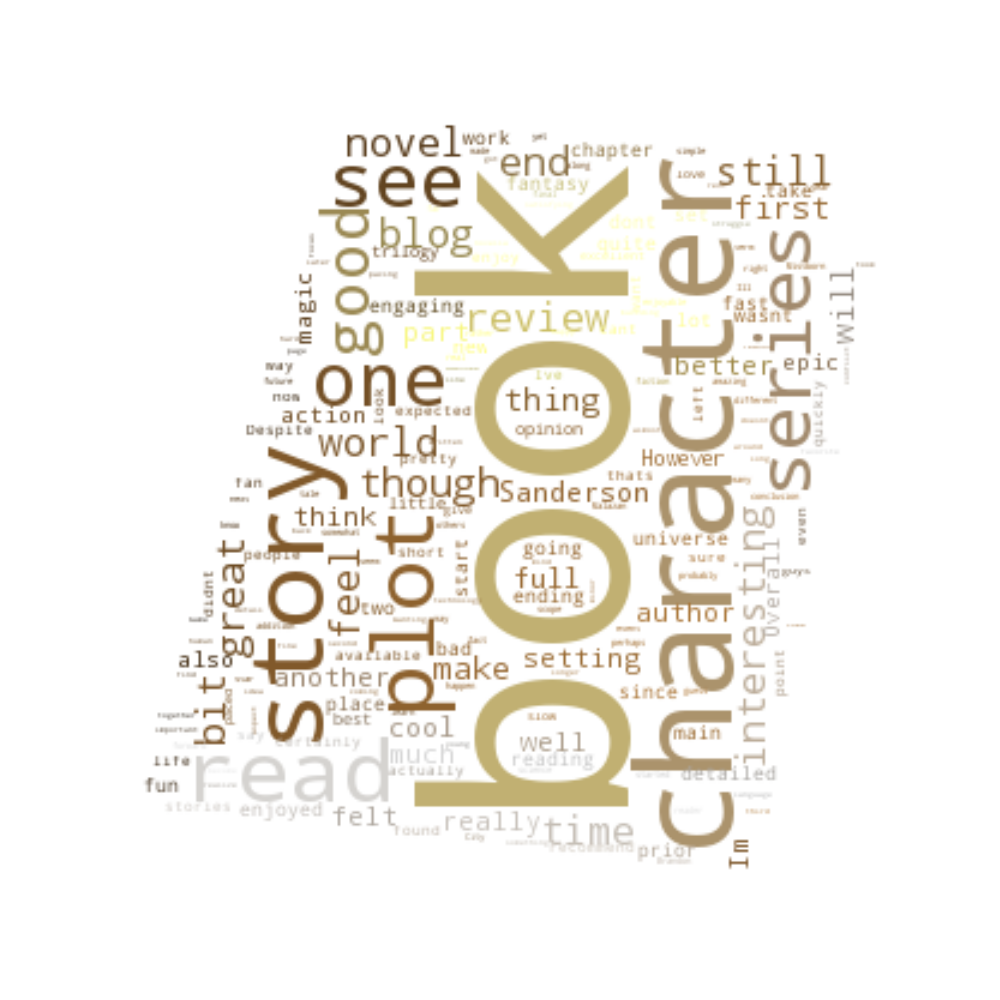
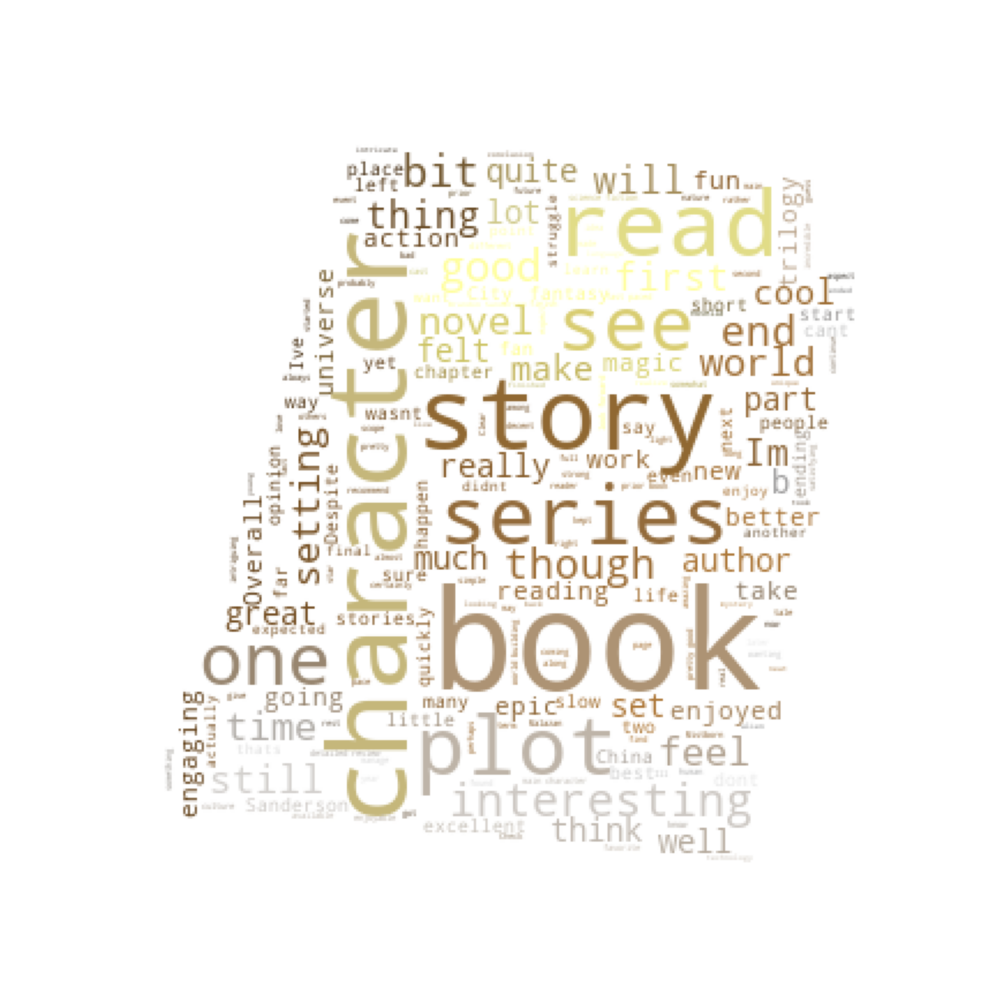
updating wordcloud

Changed region(s): [[0.124, 0.124, 0.868, 0.868]]

diff --git a/word_cloud.py b/word_cloud.py
@@ -1,15 +1,18 @@
 # Word Cloud of my reviews
 
 import pickle
-import pandas as pd
+import numpy as np
+from PIL import Image
 from wordcloud import WordCloud, STOPWORDS, ImageColorGenerator
-from scipy.misc import imread
 import matplotlib.pyplot as plt
 from utilities import my_replacements
 
 # Load data extracted from API (118 reviews)
-with open('data/reviews.pkl','r') as f:
+with open('data/books.pkl', 'rb') as f:
     df = pickle.load(f)
+
+# Remove non-reviews
+df = df[~df['text'].isnull()]
 
 filename = 'figures/wordcloud.png'
 size = 10
@@ -18,6 +21,7 @@ horizontal = 0.9
 image = 'images/book_clipart3.png'
 mask = 'images/book_clipart3.png'
 
+words = ''
 words = ' '.join(df['text'].tolist())
 
 # Clean up the text
@@ -37,17 +41,14 @@ stopwords.add('amp')
 stopwords.add('lt')
 
 # Load up a logo as a mask & color image
-cloud_mask = imread(mask)
-logo = imread(image)
+logo = np.array(Image.open(image))
 
 # Generate colors
 image_colors = ImageColorGenerator(logo)
 
 # Generate plot
-wc = WordCloud(stopwords=stopwords, mask=cloud_mask, color_func=image_colors, scale=0.8,
+wc = WordCloud(stopwords=stopwords, mask=logo, color_func=image_colors, scale=0.8,
                max_words=max_words, background_color='white', random_state=42, prefer_horizontal=horizontal)
-# wc = WordCloud(stopwords=stopwords, scale=0.8, max_words=max_words, background_color='white',
-#                random_state=42, prefer_horizontal=horizontal)
 
 wc.generate(words_no_urls)
 
